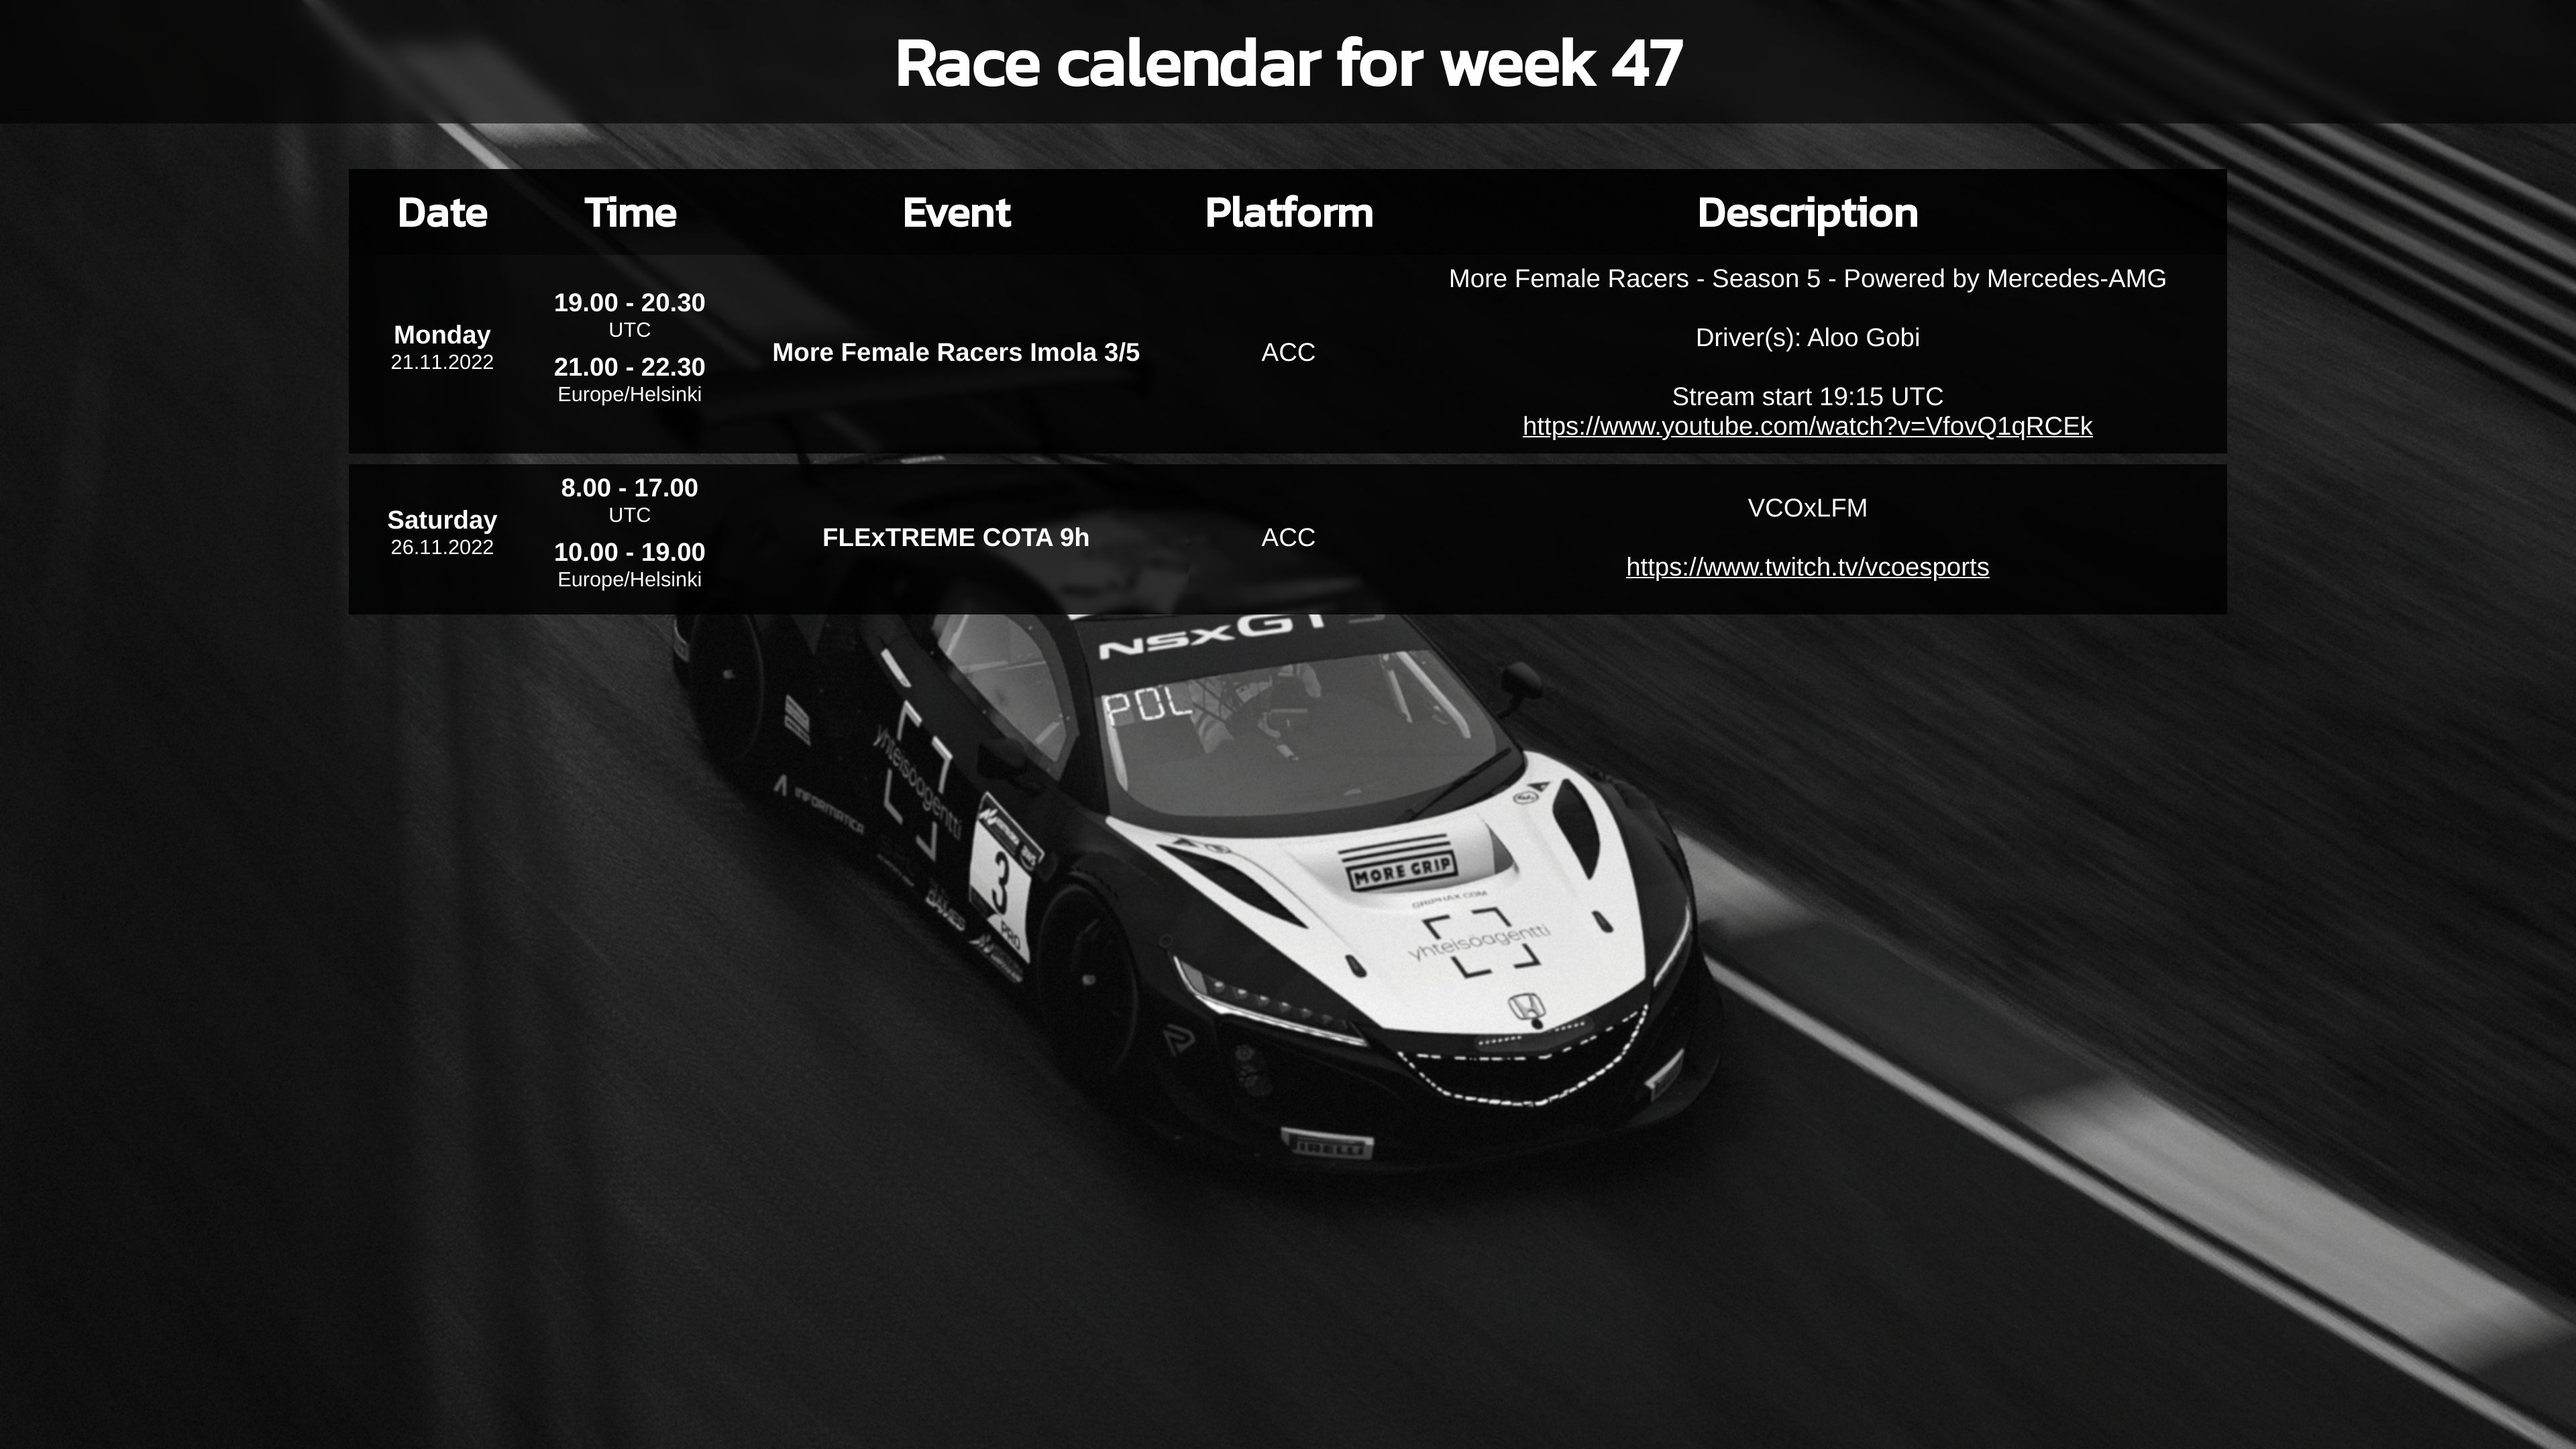
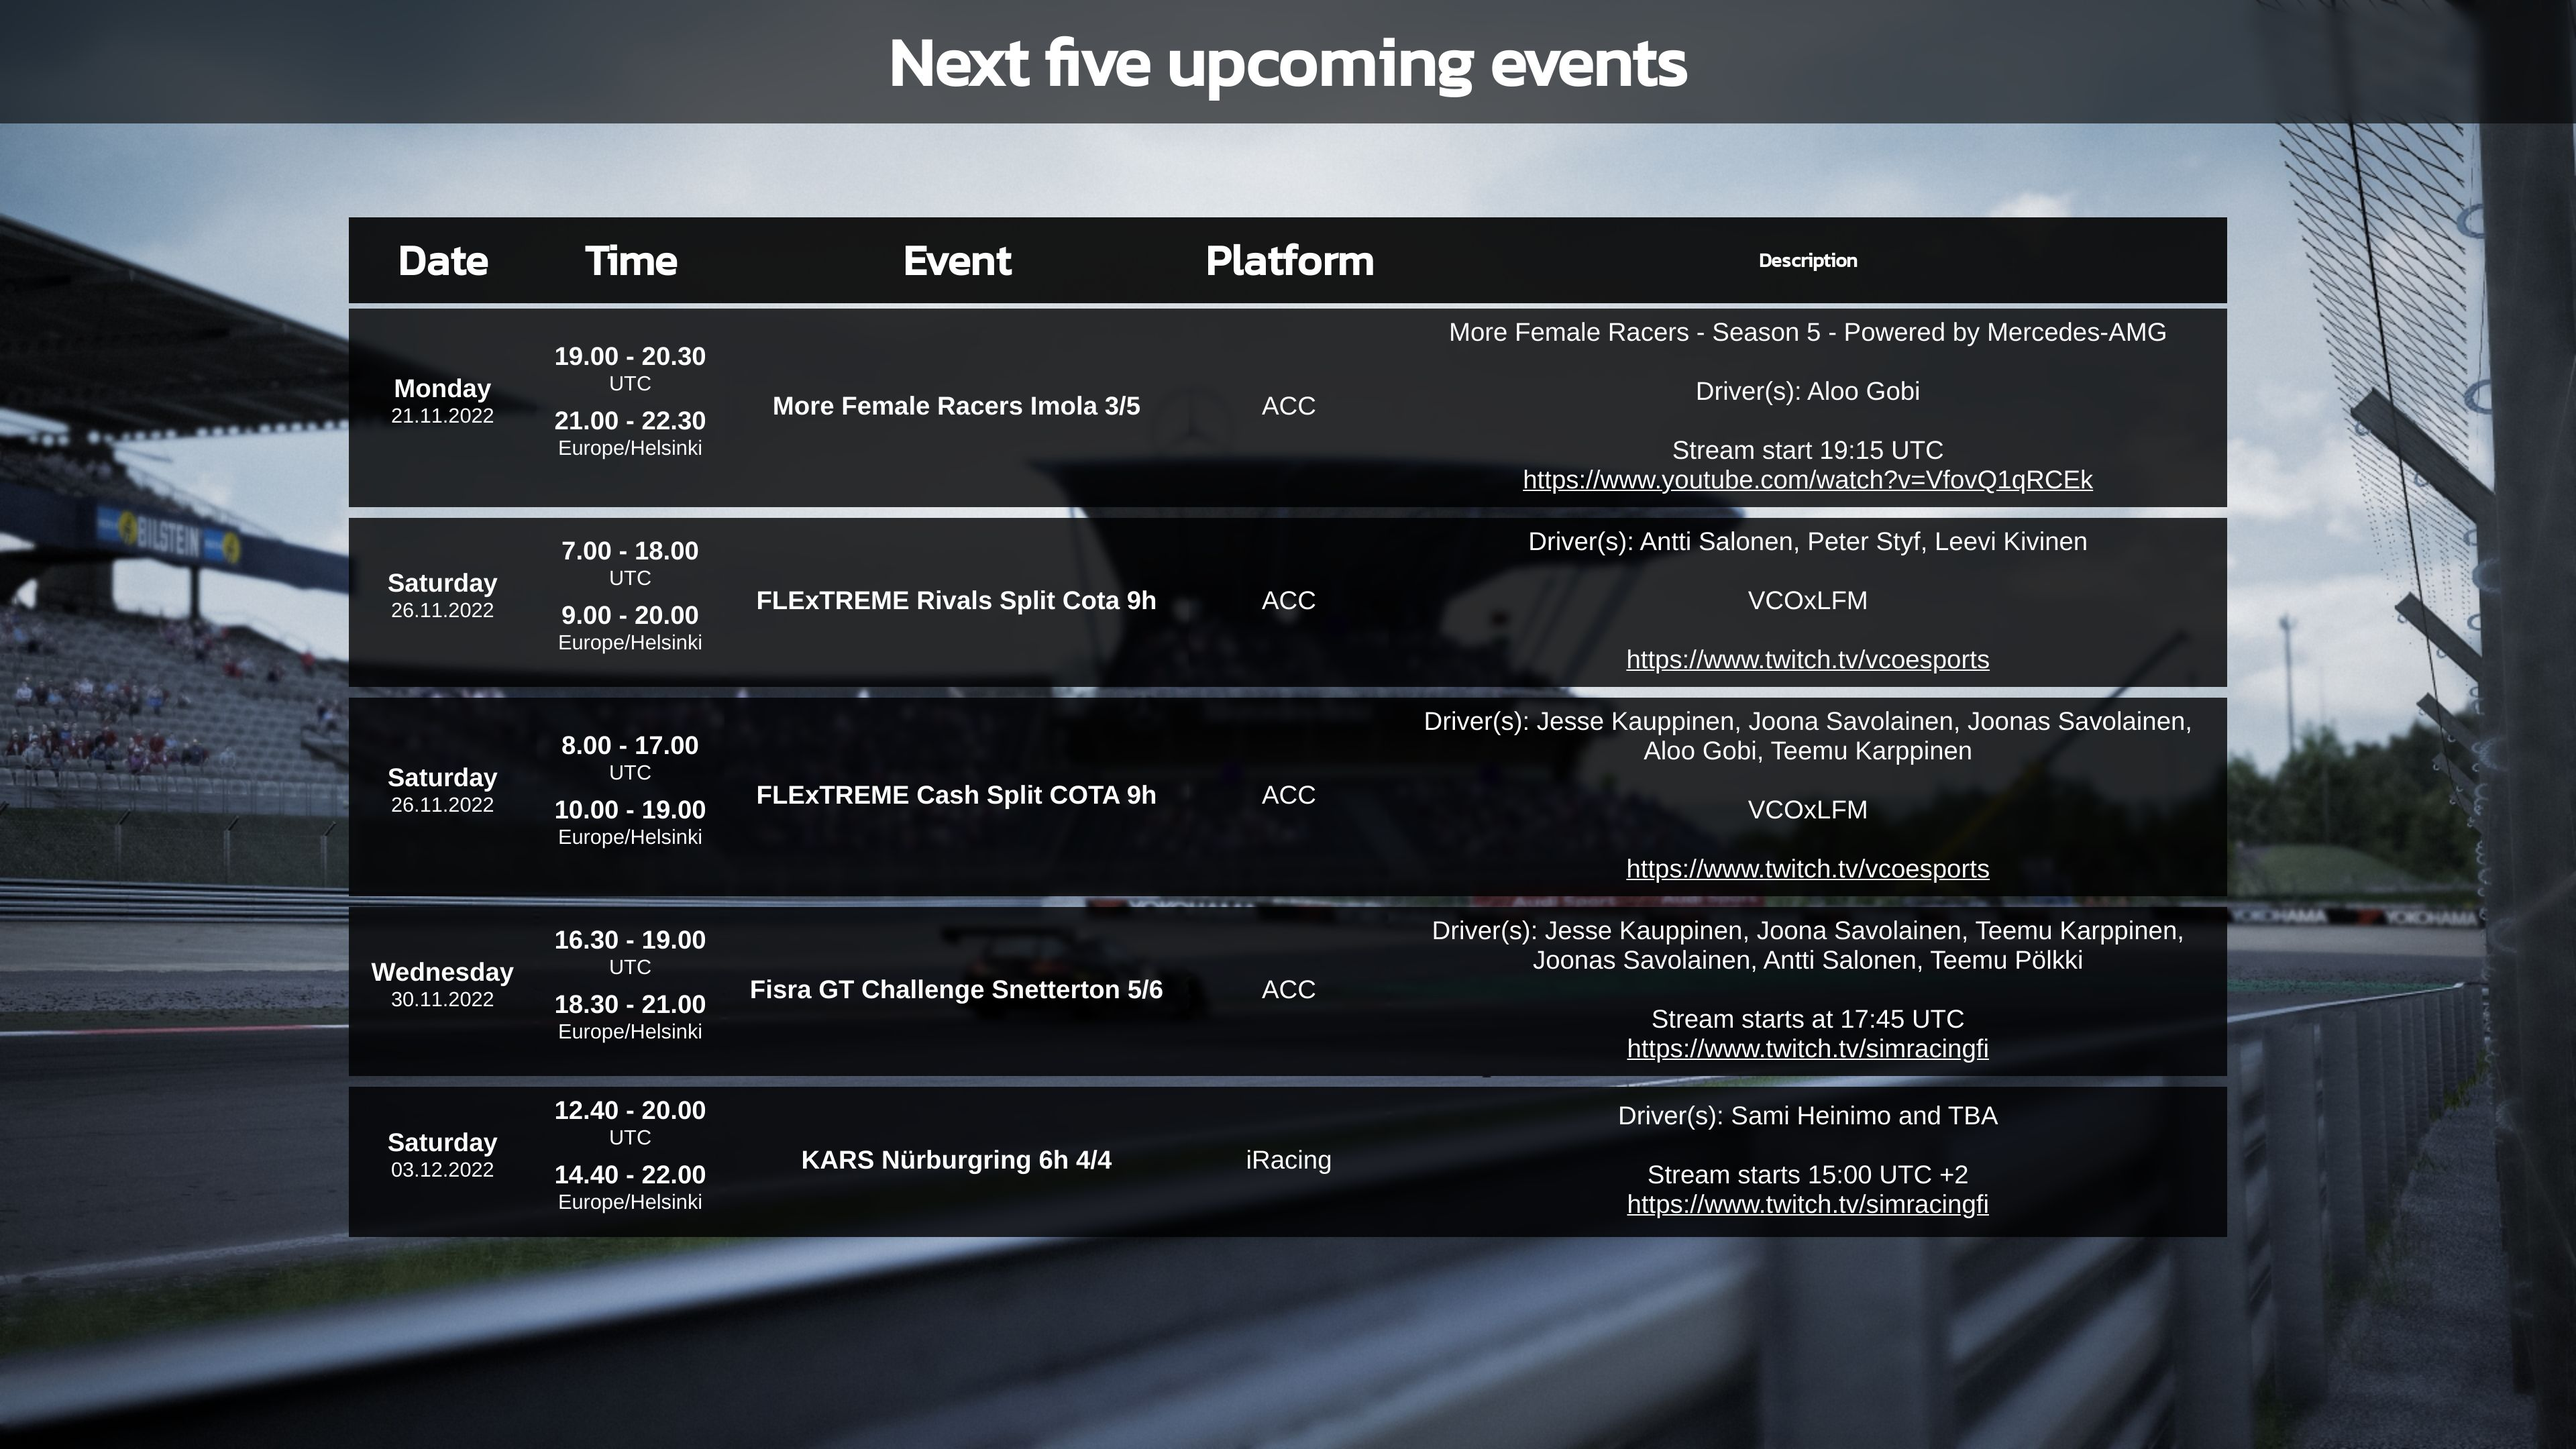
updated the format

diff --git a/assets/html/schedule.html b/assets/html/schedule.html
@@ -1,7 +1,4 @@
-<!DOCTYPE html>
-<html lang="en">
-
-<head>
+<!DOCTYPE html><html lang="en"><head>
   <meta charset="UTF-8">
   <meta http-equiv="X-UA-Compatible" content="IE=edge">
   <meta name="viewport" content="width=device-width, initial-scale=1.0">
@@ -96,7 +93,8 @@
     }
 
     #desc {
-      width: 45%
+      width: 45%;
+      font-size: 0.9em;
     }
 
     #heading {
@@ -146,7 +144,7 @@
       font-weight: 600;
     }
 
-    td span {
+    td span.small {
       font-weight: 200;
       font-size: 0.8em;
       display: block;
@@ -183,18 +181,9 @@
 </head>
 
 <body>
-  <div id="container" style="background-image: url(../img/12.png);">
-    <h1 id="heading">Race calendar </h1>
+  <div id="container" style="background-image: url(../img/19.png);">
+    <h1 id="heading">Next five upcoming events </h1>
     <div id="cal-container">
-      <script>
-        currentDate = new Date();
-        startDate = new Date(currentDate.getFullYear(), 0, 1);
-        var days = Math.floor((currentDate - startDate) /
-          (24 * 60 * 60 * 1000));
-
-        var weekNumber = Math.ceil(days / 7);
-        document.getElementById("heading").innerText = `Race calendar for week ${weekNumber}`
-      </script>
       <table>
         <thead>
           <tr>
@@ -206,33 +195,14 @@
           </tr>
         </thead>
         <tbody id="dynamic-data">
-          <tr>
-            <td class="bold">Monday<span>21.11.2022</span></td>
-            <td class="bold">19.00 - 20.30 <span>UTC</span>21.00 - 22.30 <span>Europe/Helsinki</span></td>
-            <td class="bold">More Female Racers Imola 3/5</td>
-            <td>ACC</td>
-            <td class="desc">More Female Racers - Season 5 - Powered by Mercedes-AMG<br><br>Driver(s): Aloo
-              Gobi<br><br>Stream start 19:15 UTC<br><a href="https://www.youtube.com/watch?v=VfovQ1qRCEk" id="ow1288"
-                __is_owner="true">https://www.youtube.com/watch?v=VfovQ1qRCEk</a></td>
-          </tr>
-          <tr>
-            <td class="bold">Saturday<span>26.11.2022</span></td>
-            <td class="bold">8.00 - 17.00 <span>UTC</span>10.00 - 19.00 <span>Europe/Helsinki</span></td>
-            <td class="bold">FLExTREME COTA 9h</td>
-            <td>ACC</td>
-            <td class="desc">VCOxLFM<br><br><a href="https://www.twitch.tv/vcoesports" id="ow2107"
-                __is_owner="true">https://www.twitch.tv/vcoesports</a></td>
-          </tr>
-        </tbody>
+        <tr><td class="bold">Monday<span class="small">21.11.2022</span></td><td class="bold">19.00 - 20.30 <span class="small">UTC</span>21.00 - 22.30 <span class="small">Europe/Helsinki</span></td><td class="bold">More Female Racers Imola 3/5</td><td>ACC</td><td class="desc">More Female Racers - Season 5 - Powered by Mercedes-AMG<br><br>Driver(s): Aloo Gobi<br><br>Stream start 19:15 UTC<br><a href="https://www.youtube.com/watch?v=VfovQ1qRCEk" id="ow1288" __is_owner="true">https://www.youtube.com/watch?v=VfovQ1qRCEk</a></td></tr><tr><td class="bold">Saturday<span class="small">26.11.2022</span></td><td class="bold">7.00 - 18.00 <span class="small">UTC</span>9.00 - 20.00 <span class="small">Europe/Helsinki</span></td><td class="bold">FLExTREME Rivals Split Cota 9h</td><td>ACC</td><td class="desc"><html-blob><span><span>Driver(s): Antti Salonen, Peter Styf</span></span>, Leevi Kivinen<br><u></u><span><span><br>VCOxLFM<br><br><a href="https://www.twitch.tv/vcoesports">https://www.twitch.tv/vcoesports</a><u></u><u></u></span></span><u></u></html-blob></td></tr><tr><td class="bold">Saturday<span class="small">26.11.2022</span></td><td class="bold">8.00 - 17.00 <span class="small">UTC</span>10.00 - 19.00 <span class="small">Europe/Helsinki</span></td><td class="bold">FLExTREME Cash Split COTA 9h</td><td>ACC</td><td class="desc"><html-blob>Driver(s): Jesse Kauppinen, Joona Savolainen, Joonas Savolainen, Aloo Gobi, Teemu Karppinen<br><u></u><br>VCOxLFM<br><br><a href="https://www.twitch.tv/vcoesports">https://www.twitch.tv/vcoesports</a><u></u></html-blob></td></tr><tr><td class="bold">Wednesday<span class="small">30.11.2022</span></td><td class="bold">16.30 - 19.00 <span class="small">UTC</span>18.30 - 21.00 <span class="small">Europe/Helsinki</span></td><td class="bold">Fisra GT Challenge Snetterton 5/6</td><td>ACC</td><td class="desc"><html-blob><u></u>Driver(s): Jesse Kauppinen, Joona Savolainen, Teemu Karppinen, Joonas Savolainen, Antti Salonen, Teemu Pölkki<br><br>Stream starts at 17:45 UTC<br><a href="https://www.twitch.tv/simracingfi">https://www.twitch.tv/simracingfi</a><u></u></html-blob></td></tr><tr><td class="bold">Saturday<span class="small">03.12.2022</span></td><td class="bold">12.40 - 20.00 <span class="small">UTC</span>14.40 - 22.00 <span class="small">Europe/Helsinki</span></td><td class="bold">KARS Nürburgring 6h 4/4</td><td>iRacing</td><td class="desc"><html-blob>Driver(s): Sami Heinimo and TBA<br><br>Stream starts 15:00 UTC +2<br><a href="https://www.twitch.tv/simracingfi" id="ow1646" __is_owner="true">https://www.twitch.tv/simracingfi</a><u></u></html-blob></td></tr></tbody>
       </table>
     </div>
   </div>
 
 
-  <script>
+<script>
 
-  </script>
+</script>
 
-</body>
-
-</html>
+</body></html>

diff --git a/index.js b/index.js
@@ -43,7 +43,7 @@ client.once('ready', async () => {
     const UTCisoStartTime = new Intl.DateTimeFormat("fi-FI", { ...timeOptions, timeZone: "UTC" }).format(startdate);
     const UTCisoEndTime = new Intl.DateTimeFormat("fi-FI", { ...timeOptions, timeZone: "UTC" }).format(enddate);
 
-    let row = `<tr><td class="bold">${textDate}<span>${isoDate}</span></td><td class="bold" >${UTCisoStartTime} - ${UTCisoEndTime} <span>UTC</span>${isoStartTime} - ${isoEndTime} <span>Europe/Helsinki</span></td><td class="bold">${event.summary}</td><td>${event.location}</td><td class="desc">${event.description}</td></tr>`;
+    let row = `<tr><td class="bold">${textDate}<span class="small">${isoDate}</span></td><td class="bold" >${UTCisoStartTime} - ${UTCisoEndTime} <span class="small">UTC</span>${isoStartTime} - ${isoEndTime} <span class="small">Europe/Helsinki</span></td><td class="bold">${event.summary}</td><td>${event.location}</td><td class="desc">${event.description}</td></tr>`;
 
     $('tbody').append(row);
   });
@@ -123,8 +123,7 @@ async function listEvents(auth) {
   const res = await calendar.events.list({
     calendarId: '7dfad8734021b66a71830abe8ff9dacf4141757e0043a7051e4ea3889927b75c@group.calendar.google.com',
     timeMin: new Date().toISOString(),
-    timeMax: new Date(new Date().getTime() + 7 * 24 * 60 * 60 * 1000).toISOString(),
-    maxResults: 99,
+    maxResults: 5,
     singleEvents: true,
     orderBy: 'startTime',
   });

diff --git a/assets/html/index.html b/assets/html/index.html
@@ -96,7 +96,8 @@
     }
 
     #desc {
-      width: 45%
+      width: 45%;
+      font-size: 0.9em;
     }
 
     #heading {
@@ -146,7 +147,7 @@
       font-weight: 600;
     }
 
-    td span {
+    td span.small {
       font-weight: 200;
       font-size: 0.8em;
       display: block;
@@ -184,17 +185,8 @@
 
 <body>
   <div id="container">
-    <h1 id="heading">Race calendar </h1>
+    <h1 id="heading">Next five upcoming events </h1>
     <div id="cal-container">
-      <script>
-        currentDate = new Date();
-        startDate = new Date(currentDate.getFullYear(), 0, 1);
-        var days = Math.floor((currentDate - startDate) /
-          (24 * 60 * 60 * 1000));
-
-        var weekNumber = Math.ceil(days / 7);
-        document.getElementById("heading").innerText = `Race calendar for week ${weekNumber}`
-      </script>
       <table>
         <thead>
           <tr>
